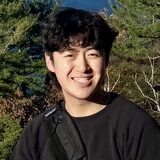
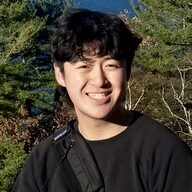
Enlarge the profile photo and swap rank pips for pixel stars
The avatar shows at 96px (56px on phone thread pages), re-exported at
192px from the original photo so it stays sharp on 2x screens. Five
overlapping pixel-art stars replace the gel rank pips, the profile
panel header reads "profile", and the name under the photo is
"andrew tang".

Amp-Thread-ID: https://ampcode.com/threads/T-01a1ccfb-28b4-71e8-b5f9-c48f07d63864

diff --git a/public/styles.css b/public/styles.css
@@ -61,12 +61,12 @@ a:focus-visible { outline: 1px dotted currentColor; outline-offset: 3px; }
 .row + .row { margin-top: 8px; }
 .label { color: var(--muted); font-size: 12px; text-align: right; }
 
-/* Postbit: the forum user column with a framed avatar, user title, and rank pips */
+/* Postbit: the forum user column with a framed avatar, username, and pixel-art star rank */
 .profile { display: grid; grid-template-columns: auto 1fr; align-items: center; gap: 1.25em; }
 .postbit { display: grid; justify-items: center; gap: 5px; padding-right: 1.25em; border-right: 1px solid var(--line); }
 .avatar {
   display: block;
-  width: 80px; height: 80px;
+  width: 96px; height: 96px;
   padding: 3px;
   border: 1px solid var(--line);
   border-radius: 4px;
@@ -74,14 +74,7 @@ a:focus-visible { outline: 1px dotted currentColor; outline-offset: 3px; }
   box-shadow: 0 1px 2px rgb(60 56 40 / 15%);
 }
 .usertitle { color: var(--theme-ink); font-size: 12px; font-weight: 700; line-height: 1; text-shadow: 0 1px 0 #fff; }
-.pips { display: flex; gap: 2px; }
-.pips span {
-  width: 8px; height: 8px;
-  border: 1px solid #5f9a4e;
-  border-radius: 2px;
-  background: linear-gradient(180deg, #e6ffd9 0%, #a8dc8f 45%, #78bb5f 50%, #8fcb76 100%);
-  box-shadow: inset 0 1px 0 rgb(255 255 255 / 70%);
-}
+.rank { display: block; margin-top: 5px; image-rendering: pixelated; }
 
 /* Shared gel button */
 .gel {
@@ -255,9 +248,9 @@ th.last, td.last { width: 15ch; }
   .page { padding: 16px; }
   .row { grid-template-columns: 1fr; gap: 2px; }
   .thread { grid-template-columns: 1fr; }
-  .thread .postbit { grid-template-columns: auto auto; grid-template-areas: "avatar title" "avatar pips"; justify-content: start; justify-items: start; column-gap: 10px; padding: 0 0 12px; border-right: 0; border-bottom: 1px solid var(--line); }
-  .thread .avatar { grid-area: avatar; width: 48px; height: 48px; padding: 2px; }
+  .thread .postbit { grid-template-columns: auto auto; grid-template-areas: "avatar title" "avatar rank"; justify-content: start; justify-items: start; column-gap: 10px; padding: 0 0 12px; border-right: 0; border-bottom: 1px solid var(--line); }
+  .thread .avatar { grid-area: avatar; width: 56px; height: 56px; padding: 2px; }
   .thread .usertitle { grid-area: title; align-self: end; }
-  .thread .pips { grid-area: pips; align-self: start; }
+  .thread .rank { grid-area: rank; align-self: start; }
   .label { text-align: left; }
 }
